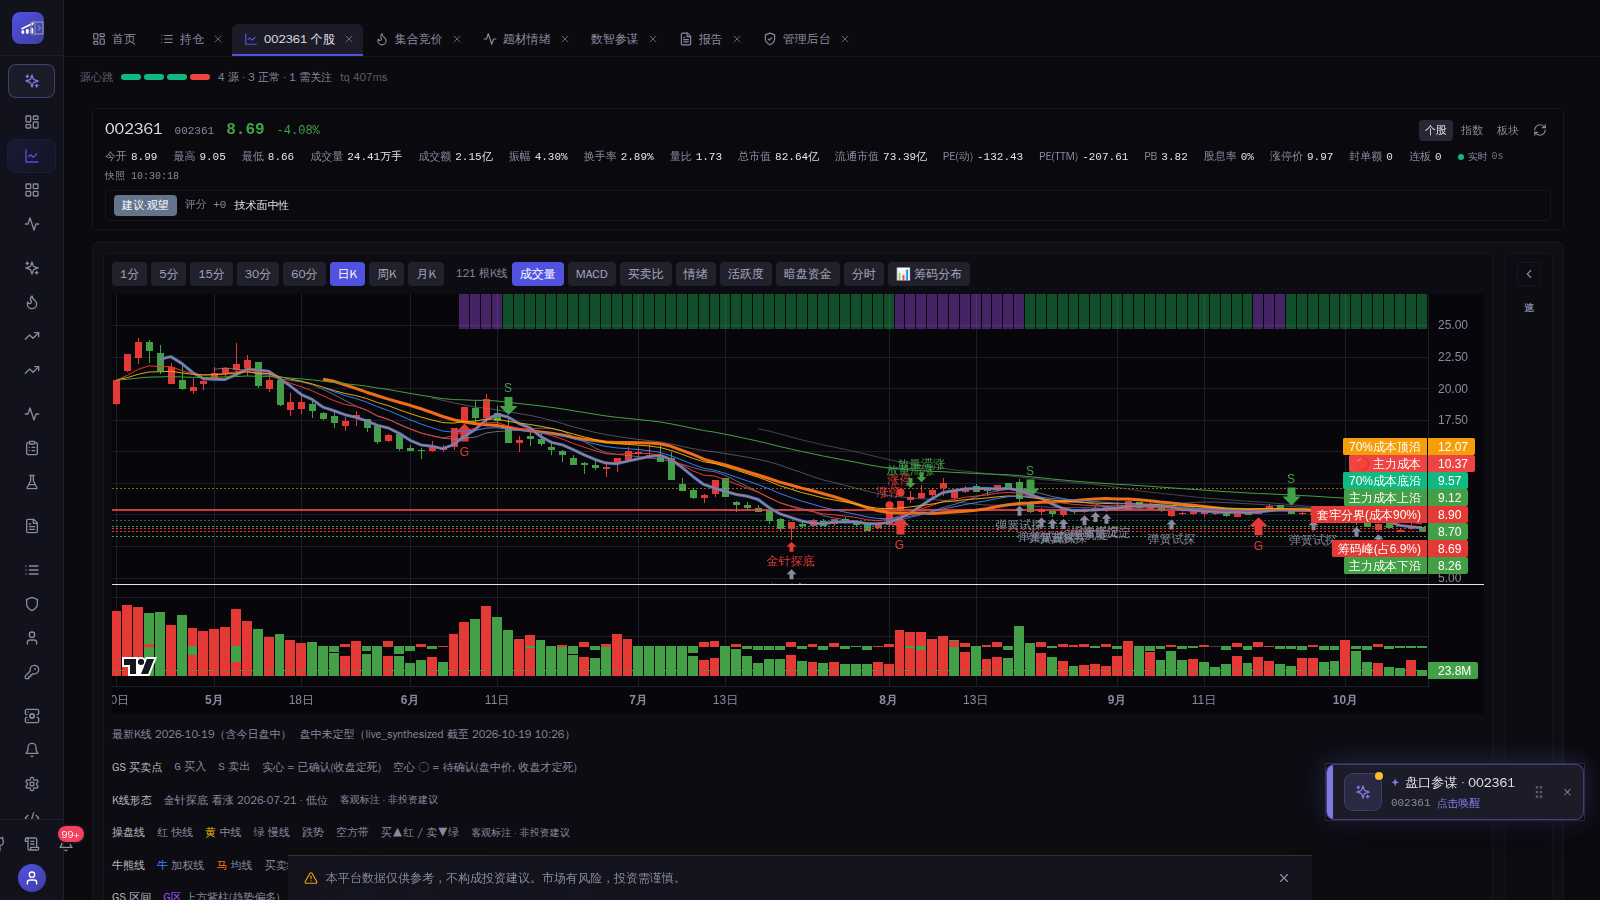
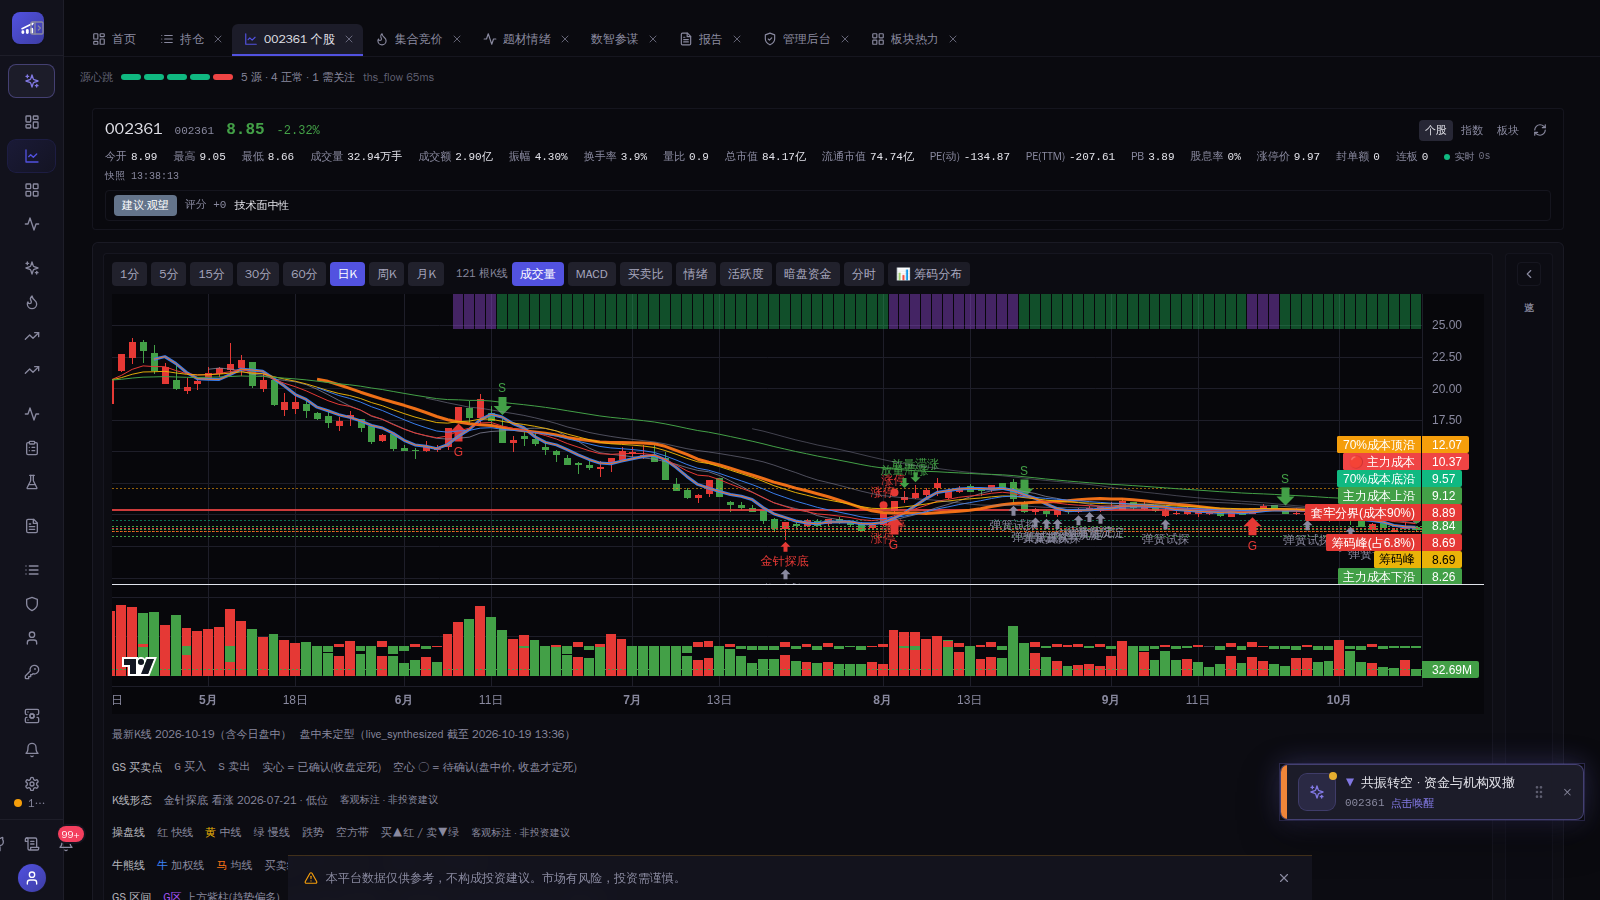
fix(kline): ensure ascending order for markers and sync interval props (v0.18.2)

diff --git a/frontend/packages/biz-ui/src/components/KlineChart.tsx b/frontend/packages/biz-ui/src/components/KlineChart.tsx
@@ -455,6 +455,12 @@ export default function KlineChart(props: {
   const activityLinesRef = useRef<ReturnType<ISeriesApi<'Histogram'>['createPriceLine']>[]>([])
   const [interval, setInterval] = useState<KlineInterval>(props.initialInterval || '1d')
 
+  useEffect(() => {
+    if (props.initialInterval && props.initialInterval !== interval) {
+      setInterval(props.initialInterval)
+    }
+  }, [props.initialInterval, interval])
+
   // ── 分时模式(P1): 只保留 "分时/K线" 切换; 取数与四种状态由 MinutePane 自持 ──
   const [mode, setMode] = useState<'kline' | 'minute'>('kline')
 
@@ -1406,8 +1412,20 @@ export default function KlineChart(props: {
     // LWC v5: 时间落在首/末根 K 线之外的 marker 会让 setMarkers 抛 "Value is null"
     // → 整页进错误边界(周末/节假日"当天有公告、当天没 K 线"必踩)。裁掉, 不假装定位。
     const safeMarkers = filterMarkersInBarsRange(markers, rawKlinesRef.current.map(b => b.time))
-    if (!markerPluginRef.current) markerPluginRef.current = createSeriesMarkers(series, safeMarkers)
-    markerPluginRef.current.setMarkers(safeMarkers)
+    try {
+      if (!markerPluginRef.current) {
+        markerPluginRef.current = createSeriesMarkers(series, safeMarkers)
+      } else {
+        markerPluginRef.current.setMarkers(safeMarkers)
+      }
+    } catch (e) {
+      console.warn('[KlineChart] createSeriesMarkers failed, fallback to recreate:', e)
+      try {
+        markerPluginRef.current = createSeriesMarkers(series, safeMarkers)
+      } catch (err) {
+        console.error('[KlineChart] recreate marker failed:', err)
+      }
+    }
 
     // 2a) GS 区间色带(规格 §1, 2026-10-11): 由**已确认** G/S 信号逐根推区间 → 主图顶部短柱带
     //     (G区紫/S区绿)。末根 pending(未确认)不据它染色(防末根假交叉染错整段区间);
@@ -1698,6 +1716,7 @@ export default function KlineChart(props: {
       className="flex flex-col gap-2"
       data-gs-go={gsResolved.go}
       data-gs-stop={gsResolved.stop}
+      data-gs-count={effGsSignals.length}
       data-chart-panes={paneInfo}
     >
       {/* 周期切换器 */}

diff --git a/frontend/packages/biz-ui/src/lib/chart-markers.ts b/frontend/packages/biz-ui/src/lib/chart-markers.ts
@@ -27,7 +27,7 @@ export function dayKey(t: Time): number | null {
   return p.year * 10000 + p.month * 100 + p.day
 }
 
-/** 只保留时间落在首/末根 K 线之间(含)的 marker; 没有 K 线时全丢(画在空图上必崩)。 */
+/** 只保留时间落在首/末根 K 线之间(含)的 marker; 并按时间升序排(LWC 强约束: markers 必须单调递增)。 */
 export function filterMarkersInBarsRange<T extends { time: Time }>(markers: T[], barTimes: Time[]): T[] {
   if (!barTimes.length) return markers.length ? [] : []
   let lo = Infinity
@@ -39,8 +39,10 @@ export function filterMarkersInBarsRange<T extends { time: Time }>(markers: T[],
     if (k > hi) hi = k
   }
   if (!Number.isFinite(lo) || !Number.isFinite(hi)) return []
-  return markers.filter((m) => {
-    const k = dayKey(m.time)
-    return k !== null && k >= lo && k <= hi
-  })
+  return markers
+    .filter((m) => {
+      const k = dayKey(m.time)
+      return k !== null && k >= lo && k <= hi
+    })
+    .sort((a, b) => (dayKey(a.time) ?? 0) - (dayKey(b.time) ?? 0))
 }

diff --git a/scripts/thorough_user_crawler.py b/scripts/thorough_user_crawler.py
@@ -200,8 +200,8 @@ def run_user_crawler():
             localStorage.setItem('token', '{token}');
         }}""")
 
-        # 走查题材情绪连板梯队
-        flows_to_run = [f for f in FLOWS if f["id"] == "11_theme_mood"]
+        # 走查 04_workbench_main 检查 GS 标记与图例
+        flows_to_run = [f for f in FLOWS if f["id"] == "04_workbench_main"]
         for flow in flows_to_run:
             f_id = flow["id"]
             name = flow["name"]
@@ -216,13 +216,15 @@ def run_user_crawler():
                 if msg.type in ("error", "warning"):
                     page_errors.append(msg.text[:120])
             def handle_resp(r):
-                if "/boards/heatmap" in r.url:
-                    print(f"[BROWSER NET HEATMAP] {r.status} {r.url}")
+                if "/summary" in r.url and "klines" in r.url:
+                    print(f"[BROWSER NET SUMMARY] {r.status} {r.url}")
                     try:
-                        body_txt = r.text()
-                        print(f"[BROWSER NET HEATMAP BODY] len={len(body_txt)}: {body_txt[:300]}")
+                        txt = r.text()
+                        import json
+                        obj = json.loads(txt).get("data", {})
+                        print(f"gs_signals: {obj.get('gs_signals')}")
                     except Exception as err:
-                        print(f"[BROWSER NET HEATMAP BODY ERR]: {err}")
+                        print(f"[BROWSER NET SUMMARY ERR]: {err}")
                 if r.status >= 400:
                     print(f"[BROWSER NET] {r.status} {r.url}")
                     network_errors.append(f"{r.status} {r.url.split('?')[0]}")
@@ -250,6 +252,19 @@ def run_user_crawler():
             except Exception as e:
                 print(f"    [FAIL] 页面访问失败: {e}")
                 
+            # 检查图例中是否存在 gs-zone-legend 以及 data-gs-count
+            gs_info = page.evaluate("""() => {
+                const el = document.querySelector('[data-gs-count]');
+                const legend = document.querySelector('[data-testid="gs-zone-legend"]');
+                const gs_legend = document.querySelector('[data-testid="gs-legend"]');
+                return {
+                    gs_count_attr: el ? el.getAttribute('data-gs-count') : null,
+                    zone_legend_found: Boolean(legend),
+                    gs_legend_found: Boolean(gs_legend),
+                    gs_legend_text: gs_legend ? gs_legend.innerText : null
+                };
+            }""")
+            print(f"[PAGE EVAL GS INFO]: {gs_info}")
             # 真实页面可见文字抽检
             text = page.evaluate("() => document.body ? document.body.innerText : ''")
             found_alerts = []

diff --git a/CHANGELOG.md b/CHANGELOG.md
@@ -175,6 +175,14 @@
 - **门禁**：`tests/test_chat_tools_copilot.py`（21 项）+ `copilot-capsule/copilot-brief-card/copilot-copy-contract`
   前端用例；`check_ui_rules.mjs` OK（无裸 `toFixed` / 无 CRLF / 字号合规）。
 
+## release: v0.18.2 (修复K线图LWC插件单调排序约束与周期同步)（2026-10-19）
+
+- **VERSION**: bump v0.18.1 → v0.18.2 (同步 README.md / README.zh-CN.md 徽章)。
+- **K线主图 GS 买卖点与 Marker 稳定渲染**:
+  - `chart-markers.ts` (filterMarkersInBarsRange): 增加强制按时间升序排序（LWC 强制约束，非单调递增 markers 会导致整个图层标记静默丢失或抛错）；
+  - `KlineChart.tsx`: 为 `createSeriesMarkers` 与 `setMarkers` 增加异常捕获与自动重建机制，并在顶层暴露 `data-gs-count` 供巡检探针追踪；
+  - `KlineChart.tsx`: 同步响应外部 `props.initialInterval` 切换，确保从分时或其他周期切换到日线时自动重置日线周期，正确激活日线 GS 标记。
+
 ## release: v0.18.1 (连板梯队盘中时段放宽至午间休市连续查看)（2026-10-19）
 
 - **VERSION**: bump v0.18.0 → v0.18.1 (同步 README.md / README.zh-CN.md 徽章)。

diff --git a/README.md b/README.md
@@ -5,7 +5,7 @@
 **Proprietary personal stock-trading analytics platform** — dual data sources (TDX `.tck`/`.img`/TQ + THS `thsdk`) → full-market scanning → K-line overlay annotation → AI data steward. Self-hosted, all-in-one.
 
 [![License: Proprietary](https://img.shields.io/badge/License-Proprietary-red.svg)](LICENSE)
-![Version](https://img.shields.io/badge/version-v0.18.1-blue) <!-- bump together with VERSION file on every release -->
+![Version](https://img.shields.io/badge/version-v0.18.2-blue) <!-- bump together with VERSION file on every release -->
 
 *Language: [中文](README.zh-CN.md)*
 

diff --git a/README.zh-CN.md b/README.zh-CN.md
@@ -5,7 +5,7 @@
 **闭源个人股票交易分析平台** — 通达信(.tck/.img/TQ) + 同花顺(thsdk) 双数据源 → 全市场扫描 → K线图层标注 → AI 全数据管家，自托管一体系统。
 
 [![License: Proprietary](https://img.shields.io/badge/License-Proprietary-red.svg)](LICENSE)
-![Version](https://img.shields.io/badge/version-v0.18.1-blue) <!-- 与 VERSION 文件同步 bump -->
+![Version](https://img.shields.io/badge/version-v0.18.2-blue) <!-- 与 VERSION 文件同步 bump -->
 
 *语言: [English](README.md)*
 
